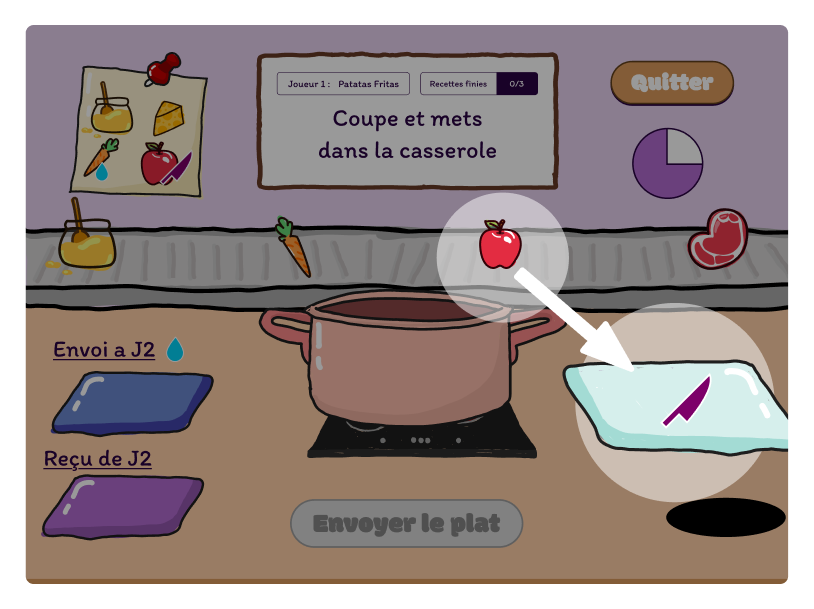
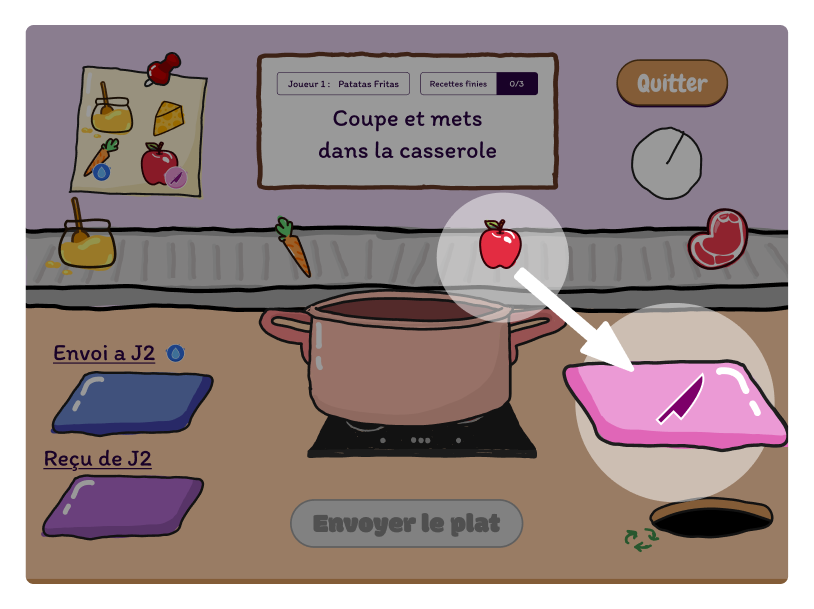
fix dupplications + edit image

diff --git a/public/tutosuite.html b/public/tutosuite.html
@@ -24,12 +24,11 @@
 
     <div class="container-tuto-suite">
         <div class="tuto">
-            <div class="top-page">
+            <div class="top-page" style="flex-direction: column; justify-content: center; align-items: center;">
                 <button class="btnBoncy btnquitter" onclick="goToIndexPage()" style="z-index: 999999;">Quitter</button>
+                <button id="destineadisparaitre" class="btnBoncy btn-tuto-join-game" onclick="goToLobbyPage()" style="z-index: 9999999 ;">Rejoindre une partie</button>
             </div>
-            <div class="create-room plan-1">
-                <button id="destineadisparaitre" class="btnBoncy " onclick="goToLobbyPage()" style="z-index: 9999999 ;">Rejoindre une partie</button>
-            </div>   
+              
         </div>
         <div class="premier-plan" style="z-index: -100000;" id="aflouter">
             <img id="myImage" src="src/img/tutosuite1tableau.png" class="diapo">
@@ -39,7 +38,7 @@
             <img src="src/img/cuisto.png" style="position: absolute; left: 0; bottom: 0; max-width: 33vw;">
             <div class="container-dialogue-arrow " style="z-index: 1;">
                 <button id="For2player" class="btn-direction btnBoncy" onclick="changePlanInverse()"> < </button>
-                <p id="nameBtnChange" class="h3 text-dialogue">Glisse la 🍎 sur la plaque <br> 🔪 pour la couper</p>
+                <p id="nameBtnChange" class="h3 text-dialogue">Glisse la 🍏 sur la plaque <br> 🔪 pour la couper</p>
                 <button id="For2player" class="btn-direction btnBoncy" onclick="changePlan()"> > </button>
             </div>
         </div>
@@ -86,6 +85,8 @@
            window.location.href = "lobby.html";
        }
 
+
+    //    AVANCER DE SLIDE DANS LE TUTO
         function changePlan() {
            const image = document.getElementById("myImage");
            const textbtn = document.getElementById("nameBtnChange");
@@ -94,7 +95,7 @@
                 numSlide++;
                 console.log(numSlide);
                 image.src = "src/img/tutosuite2tableau.png";
-                textbtn.innerHTML = "Place la pomme à découpé <br> dans la casserole !" 
+                textbtn.innerHTML = "Place la pomme à découpée <br> dans la casserole !" 
             } else if (numSlide == 1){
                 numSlide++;
                 console.log(numSlide);
@@ -104,28 +105,32 @@
                 numSlide++;
                 console.log(numSlide);
                 image.src = "src/img/tutosuite4tableau.png";
-                textbtn.innerHTML = "Si tu ne veux, tu peux <br> ramener le 🥩 en réserve 🕳" 
+                textbtn.innerHTML = "Si tu n'en veux, tu peux <br> ramener le 🥩 en réserve 🕳" 
+
+                // ERREUUURRRR J'AI FAIT EN DOUBLE CORRIGER CELA
+            // } else if (numSlide == 3){
+            //     numSlide++;
+            //     console.log(numSlide);
+            //     image.src = "src/img/tutosuite5tableau.png";
+            //     textbtn.innerHTML = "Glisse la 🍏 dans le lavabo💧 " 
+            // } else if (numSlide == 4){
+            //     numSlide++;
+            //     console.log(numSlide);
+            //     image.src = "src/img/tutosuite6tableau.png";
+            //     textbtn.innerHTML = "Tape pour laver et envoie <br> la 🍏 en cuisine " 
+            // } else if (numSlide == 5){
+            //     numSlide++;
+            //     console.log(numSlide);
+            //     image.src = "src/img/tutosuite7tableau.png";
+            //     textbtn.innerHTML = " Envoie le 🧈 au J1 pour le <br> couper " 
+
+                // FIN DE LA PARTIE EN DOUBLE
             } else if (numSlide == 3){
                 numSlide++;
                 console.log(numSlide);
-                image.src = "src/img/tutosuite5tableau.png";
-                textbtn.innerHTML = "Glisse la 🍎 dans le lavabo💧 " 
-            } else if (numSlide == 4){
-                numSlide++;
-                console.log(numSlide);
-                image.src = "src/img/tutosuite6tableau.png";
-                textbtn.innerHTML = "Tape pour laver et envoie <br> la 🍎 en cuisine " 
-            } else if (numSlide == 5){
-                numSlide++;
-                console.log(numSlide);
-                image.src = "src/img/tutosuite7tableau.png";
-                textbtn.innerHTML = " Envoie le 🧈 au J1 pour le <br> couper " 
-            } else if (numSlide == 6){
-                numSlide++;
-                console.log(numSlide);
                 image.src = "src/img/tutosuite8tableau.png";
-                textbtn.innerHTML = " Une fois la recette fini tu <br> peux 'envoyer le plat' " 
-            } else if (numSlide == 7){
+                textbtn.innerHTML = " Une fois la recette finie tu <br> peux 'Envoyer le plat' " 
+            } else if (numSlide == 4){
                 numSlide++;
                 console.log(numSlide);
                 image.src = "src/img/tutosuite9tableau.png";
@@ -149,11 +154,11 @@
                 mylittleimg1.classList.remove("clean");
                 const imgombre = document.getElementById("myImage")
                 imgombre.style.filter = "brightness(0.5)";
-            } else if (numSlide == 8){
+            } else if (numSlide == 5){  //PARTIE EN DOUBLE ICI SUPPRIMER LA OU AUTRE
                 numSlide++;
                 console.log(numSlide);
-                image.src = "src/img/tutosuite10tableau.png";
-                textbtn.innerHTML = "Glisse 🍎 dans le lavabo 💧";
+                image.src = "src/img/tutosuite5tableau.png";
+                textbtn.innerHTML = "Glisse 🍏 dans le lavabo 💧";
                 textTitre.innerHTML = "Tutoriel - Joueur 2"; 
                 const floute = document.getElementById("aflouter")
                 floute.style.filter = "blur(0)"
@@ -174,25 +179,25 @@
                 mylittleimg1.classList.add("clean");
                 const imgombre = document.getElementById("myImage")
                 imgombre.style.filter = "brightness(1)";
-            } else if (numSlide == 9) {
+            } else if (numSlide == 6) {
                 numSlide++;
                 console.log(numSlide);
-                image.src = "src/img/tutosuite11tableau.png";
-                textbtn.innerHTML = "Tape pour laver et envoie <br> la 🍎 en cuisine" 
+                image.src = "src/img/tutosuite6tableau.png";
+                textbtn.innerHTML = "Tape pour laver et envoie <br> la 🍏 en cuisine" 
                 textTitre.innerHTML = "Tutoriel - Joueur 2"; 
-            } else if (numSlide == 10) {
+            } else if (numSlide == 7) {
                 numSlide++;
                 console.log(numSlide);
-                image.src = "src/img/tutosuite12tableau.png";
+                image.src = "src/img/tutosuite7tableau.png";
                 textbtn.innerHTML = "Enleve le 🧈 au J1 pour le <br> couper" 
                 textTitre.innerHTML = "Tutoriel - Joueur 2"; 
-            } else if (numSlide == 11) {
+            } else if (numSlide == 8) {
                 numSlide++;
                 console.log(numSlide);
-                image.src = "src/img/tutosuite13tableau.png";
-                textbtn.innerHTML = "Une fois la recette fini tu <br> peux 'envoyer le plat' " 
-                textTitre.innerHTML = "Tutoriel - Joueur 2"; 
-            } else if (numSlide == 12) {
+                image.src = "src/img/tutosuite8tableau.png";
+                textbtn.innerHTML = "Une fois la recette finie tu <br> peux 'Envoyer le plat' " 
+                textTitre.innerHTML = "Tutoriel - Joueur 2"; // FIN DE LA PARTIE EN DOUBLE 
+            } else if (numSlide == 9) {
                 numSlide++;
                 console.log(numSlide);
                 textbtn.innerHTML = "" 
@@ -222,6 +227,9 @@
             }
         }
 
+
+        //RETOURNER EN ARRIÈRE
+
         function changePlanInverse() {
            const image = document.getElementById("myImage");
            const textbtn = document.getElementById("nameBtnChange");
@@ -229,12 +237,12 @@
                 numSlide--;
                 console.log(numSlide);
                 image.src = "src/img/tutosuite1tableau.png";
-                textbtn.innerHTML = "Glisse la 🍎 sur la plaque <br> 🔪 pour la couper";
+                textbtn.innerHTML = "Glisse la 🍏 sur la plaque <br> 🔪 pour la couper";
             } else if (numSlide == 2){
                 numSlide--;
                 console.log(numSlide);
                 image.src = "src/img/tutosuite2tableau.png";
-                textbtn.innerHTML = "Place la pomme à découpé <br> dans la casserole !" 
+                textbtn.innerHTML = "Place la pomme à découpée <br> dans la casserole !" 
             } else if(numSlide == 3){
                 numSlide--;
                 console.log(numSlide);
@@ -244,23 +252,8 @@
                 numSlide--;
                 console.log(numSlide);
                 image.src = "src/img/tutosuite4tableau.png";
-                textbtn.innerHTML = "Si tu ne veux, tu peux <br> ramener le 🥩 en réserve 🕳" 
+                textbtn.innerHTML = "Si tu n'en veux, tu peux <br> ramener le 🥩 en réserve 🕳" 
             } else if(numSlide == 5){
-                numSlide--;
-                console.log(numSlide);
-                image.src = "src/img/tutosuite5tableau.png";
-                textbtn.innerHTML = "Glisse la 🍎 dans le lavabo💧" 
-            } else if(numSlide == 6){
-                numSlide--;
-                console.log(numSlide);
-                image.src = "src/img/tutosuite6tableau.png";
-                textbtn.innerHTML = "Tape pour laver et envoie <br> la 🍎 en cuisine" 
-            } else if(numSlide == 7){
-                numSlide--;
-                console.log(numSlide);
-                image.src = "src/img/tutosuite7tableau.png";
-                textbtn.innerHTML = "Envoie le 🧈 au J1 pour le <br> couper" 
-            } else if(numSlide == 9){
                 numSlide--;
                 console.log(numSlide);
                 image.src = "src/img/tutosuite9tableau.png";
@@ -280,22 +273,23 @@
                 mylittleimg1.classList.remove("clean");
                 const imgombre = document.getElementById("myImage")
                 imgombre.style.filter = "brightness(0.5)";
-            } else if (numSlide == 10) {
+                // Y'A PAS DE 6 PSK C LA SCENE DE TRANSITION AVANT MAIS SI BESOIN IL FAUT FAIRE LA PAGE 6 ICI
+            } else if (numSlide == 7) { 
+                numSlide--; 
+                console.log(numSlide);
+                image.src = "src/img/tutosuite5tableau.png";
+                textbtn.innerHTML = "Glisse 🍏 dans le lavabo 💧" 
+            } else if (numSlide == 8) {
                 numSlide--;
                 console.log(numSlide);
-                image.src = "src/img/tutosuite10tableau.png";
-                textbtn.innerHTML = "Glisse 🍎 dans le lavabo 💧" 
-            } else if (numSlide == 11) {
+                image.src = "src/img/tutosuite6tableau.png";
+                textbtn.innerHTML = "Tape pour laver et envoie <br> la 🍏 en cuisine" 
+            } else if (numSlide == 9) {
                 numSlide--;
                 console.log(numSlide);
-                image.src = "src/img/tutosuite11tableau.png";
-                textbtn.innerHTML = "Tape pour laver et envoie <br> la 🍎 en cuisine" 
-            } else if (numSlide == 12) {
-                numSlide--;
-                console.log(numSlide);
-                image.src = "src/img/tutosuite12tableau.png";
-                textbtn.innerHTML = "Enleve le 🧈 au J1 pour le <br> couper" 
-            }                
+                image.src = "src/img/tutosuite7tableau.png";
+                textbtn.innerHTML = "Enleve le 🧈 au J1 pour le <br> couper"  //FINDE LA PARTIE EN DOUBLE
+            }               
         }   
 
    </script>

diff --git a/public/src/css/main.css b/public/src/css/main.css
@@ -179,3 +179,14 @@ button {
     -webkit-text-stroke-width: 0px;
     padding-bottom: 18px;
 }
+
+.btn-tuto-join-game{
+    display: flex;
+    flex-direction: column;
+    align-items: center;
+    justify-content: center;
+    margin: 10px 10px;
+    font-size: 22px;
+    padding: 10px;
+    height: fit-content;
+}
